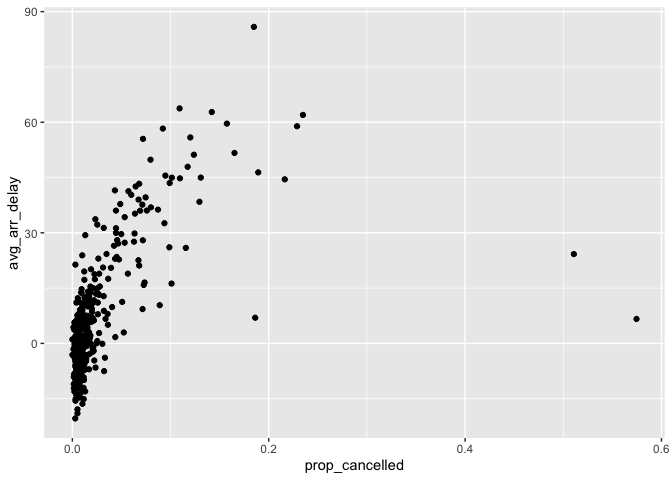
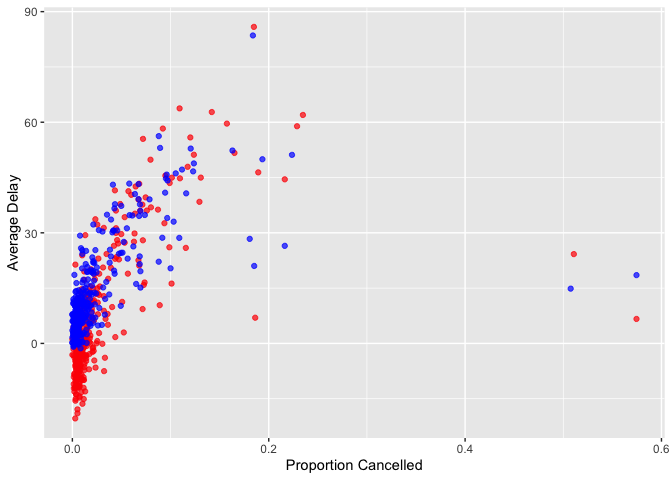
update

diff --git a/README.md b/README.md
@@ -4,11 +4,6 @@ hw1
 
 ``` r
 library(ggplot2)
-```
-
-    ## Warning: package 'ggplot2' was built under R version 4.1.1
-
-``` r
 library(dplyr)
 library(nycflights13)
 ```
@@ -106,8 +101,11 @@ the proportion of canceled flights related to the average delay? Use
 multiple dyplr operations, all on one line, concluding with
 `ggplot(aes(x= ,y=)) + geom_point()`
 
+A positive correlation can be seen when Proportion cancelled are plotted
+against Average delays for both arrival and departure.
+
 ``` r
-flights %>% group_by(year, month, day) %>% summarise(avg_arr_delay = mean(arr_delay, na.rm=T), prop_cancelled = mean(is.na(arr_delay))) %>% ggplot(aes(x=prop_cancelled ,y=avg_arr_delay)) + geom_point()
+flights %>% group_by(year, month, day) %>% summarise(avg_arr_delay = mean(arr_delay, na.rm=T), prop_cancelled_arr = mean(is.na(arr_delay)), avg_dep_delay = mean(dep_delay, na.rm=T), prop_cancelled_dep = mean(is.na(dep_delay))) %>% ggplot() + geom_point(aes(x=prop_cancelled_arr ,y=avg_arr_delay), color='red', alpha=0.7) + geom_point(aes(x=prop_cancelled_dep ,y=avg_dep_delay), color='blue', alpha=0.7) + xlab('Proportion Cancelled') + ylab('Average Delay')
 ```
 
 ![](README_files/figure-gfm/unnamed-chunk-9-1.png)<!-- -->
